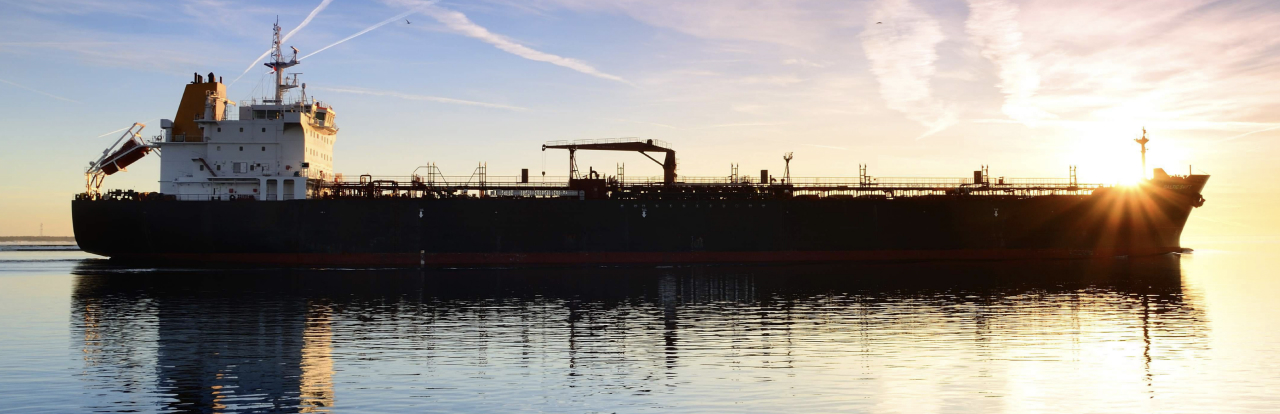
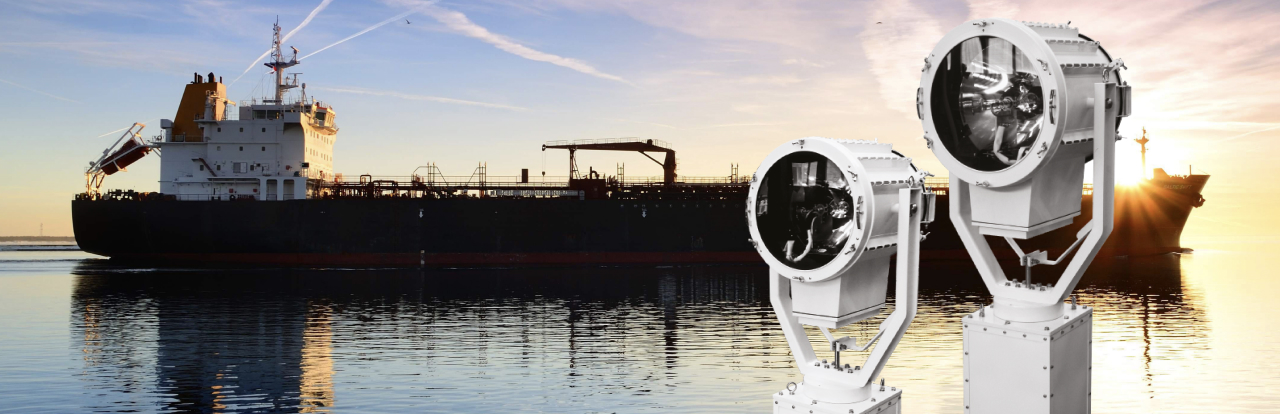
Implemented hero

Changed region(s): [[0.5625, 0.029, 0.9062, 1.0]]

diff --git a/src/components/header/header.scss b/src/components/header/header.scss
@@ -2,6 +2,9 @@
 
 .header {
   padding-bottom: 18px;
+  @include mobile {
+    padding-bottom: 0;
+  }
 
   .btn-hamburger {
     display: none;
@@ -12,7 +15,7 @@
 
   strong {
     display: inline-block;
-    margin-bottom: $indents-6;
+    margin-bottom: 6px;
     font-family: $font-family-roboto-bold;
     font-size: $font-size-xs;
   }
@@ -32,11 +35,11 @@
 
 .header-top {
   @include display-flex(space-between, flex-start);
-  padding: $indents-40 0;
+  padding: 40px 0;
   line-height: 14px;
   @include laptop {
     flex-wrap: wrap;
-    padding-bottom: $indents-15;
+    padding-bottom: 15px;
   }
 }
 
@@ -98,6 +101,7 @@
 
 .header-contact-address {
   margin-right: 28px;
+  line-height: 15px;
   @include mobile {
     display: none;
   }
@@ -114,7 +118,11 @@
   .link-phone {
     font-size: $font-size-l;
     color: $color-black;
-    margin-bottom: $indents-15;
+    margin-bottom: 15px;
+
+    &:hover {
+      text-shadow: 1px 1px 2px black;
+    }
   }
 }
 
@@ -173,15 +181,6 @@
     }
   }
 
-  a {
-    font-size: $font-size-s;
-    color: $color-black;
-
-    &:hover {
-      color: $color-blue;
-    }
-  }
-
   .header-nav-list {
     display: flex;
     @include tablet {
@@ -189,9 +188,9 @@
     }
 
     & > li {
-      margin-right: $indents-40;
+      margin-right: 40px;
       @include laptop {
-        margin-right: $indents-18;
+        margin-right: 18px;
       }
       @include tablet {
         margin-right: 0;
@@ -202,7 +201,6 @@
           border-bottom: 1px solid $color-blue;
         }
       }
-
       &:hover .header-nav-list-inner {
         display: block;
         border-bottom-left-radius: 5px;
@@ -214,11 +212,9 @@
           box-shadow: none;
         }
       }
-
       &:hover > a:after {
         transform: translateY(-50%) rotate(180deg)
       }
-
       & > a {
         position: relative;
         padding-right: 14px;
@@ -234,6 +230,14 @@
           height: 8px;
           background: url("../../assets/img/icons/arrow.svg") no-repeat center;
         }
+      }
+    }
+
+    a {
+      font-size: $font-size-s;
+      color: $color-black;
+      &:hover {
+        color: $color-blue;
       }
     }
   }

diff --git a/src/components/hero/hero.scss b/src/components/hero/hero.scss
@@ -1,24 +1,45 @@
 @import "../../common/sass/mixins";
 
 .hero {
-  @include display-flex( flex-start, center);
+  position: relative;
+  @include display-flex(flex-start, center);
   min-height: 414px;
   padding-top: 60px;
   padding-bottom: 60px;
-  background: url(../../assets/img/bg-hero.jpg) no-repeat center;
-  background-size: cover;
+}
+
+.hero-background {
+  position: absolute;
+  top: 0;
+  left: 0;
+  width: 100%;
+  height: 100%;
+}
+
+.hero-background-image {
+  width: 100%;
+  height: 100%;
+  object-fit: cover;
+  @include mobile {
+    object-position: top;
+  }
 }
 
 .hero-container {
   @include container();
   flex-direction: column;
   line-height: 1.3;
+  z-index: 2;
 }
 
 .hero-content {
   max-width: 520px;
+
   .title {
     color: $color-yellow;
+    @include mobile {
+      max-width: 280px;
+    }
 
     span {
       display: inline-block;
@@ -34,5 +55,6 @@
     font-family: $font-family-rubik-regular;
     margin-bottom: 40px;
     line-height: 20px;
-  };
+  }
+;
 }

diff --git a/src/common/sass/button.scss b/src/common/sass/button.scss
@@ -1,26 +1,32 @@
 @import "variables";
 .btn {
+  text-align: center;
+  font-size: $font-size-xxs;
+  padding: 6px 15px;
   cursor: pointer;
   outline: none;
 
-  &.btn-primary {
-    text-align: center;
-    padding: $indents-6 $indents-15;
-    font-size: $font-size-xxs;
+  &.btn-blue {
     color: $color-black;
     border: 1px solid $color-blue-light;
     border-radius: 5px;
     transition: 0.3s;
 
-    &-green {
-      border-color: $color-lightgreen;
-      color: $color-white;
-      font-size: $font-size-xs;
-    }
-
     &:hover {
+      color: $color-white;
       border-color: transparent;
       background-color: $color-blue-light;
+    }
+  }
+
+  &.btn-green {
+    color: $color-white;
+    font-size: $font-size-xs;
+    border: 1px solid $color-lightgreen;
+    border-radius: 5px;
+
+    &:hover {
+      background-color: $color-lightgreen;
     }
   }
 }

diff --git a/src/common/sass/variables.scss b/src/common/sass/variables.scss
@@ -2,23 +2,10 @@
 $pathImgCss: "../../assets/img/";
 
 // Responsive
-$xmobile-width: 540px;
 $mobile-width: 600px;
 $tablet-width: 768px;
 $laptop-width: 1024px;
 $desktop-width: 1366px;
-
-// indents 12 15/16 18 24/25/26 6 20 8   42 30 50
-$indents-6: 6px;
-$indents-8: 8px;
-$indents-12: 12px;
-$indents-15: 15px;
-$indents-18: 18px;
-$indents-20: 20px;
-$indents-25: 25px;
-$indents-30: 30px;
-$indents-40: 40px;
-$indents-50: 50px;
 
 // Colors
 $color-white: #fff;

diff --git a/src/common/sass/mixins.scss b/src/common/sass/mixins.scss
@@ -18,11 +18,6 @@ $pathFonts: "/assets/fonts";
 }
 
 // Responsive
-@mixin small-mobile {
-  @media (max-width: #{$xmobile-width - 1px}) {
-    @content;
-  }
-}
 @mixin mobile {
   @media (max-width: #{$mobile-width - 1px}) {
     @content;
